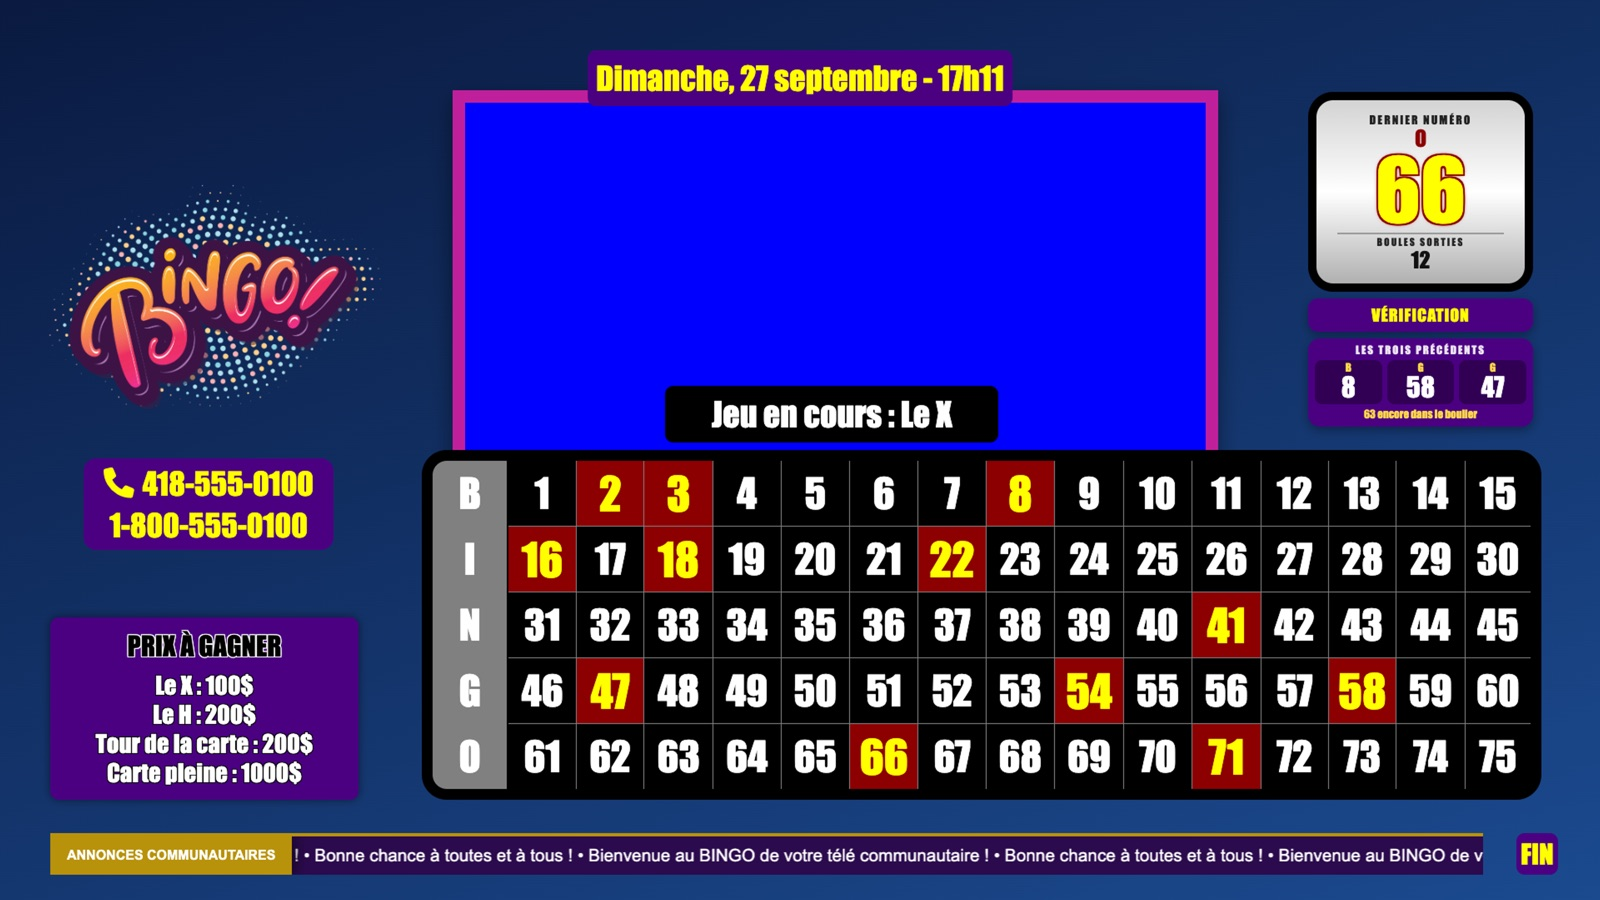
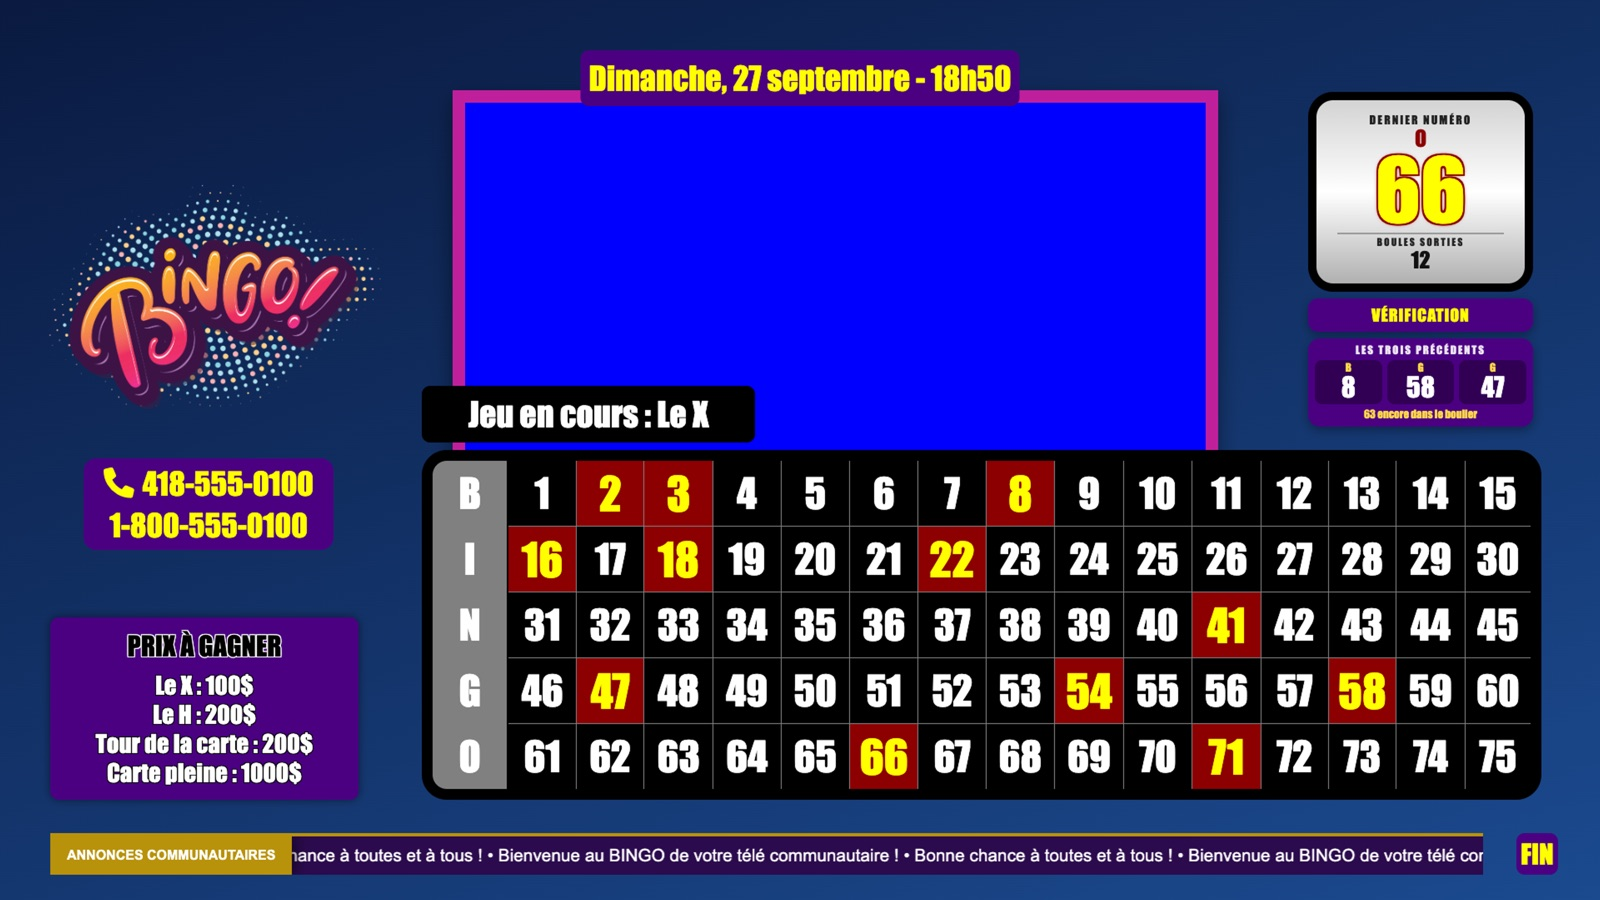
Version 2.28 : fenêtre « Félicitations », bandeau GAGNANTS, nouvelles captures

Changed region(s): [[0.25, 0.4044, 0.625, 0.4978], [0.1875, 0.9333, 0.9375, 0.9644], [0.3438, 0.0622, 0.6562, 0.1244]]

diff --git a/index.html b/index.html
@@ -43,7 +43,7 @@
         À l'écran, par contre, <strong>ton bingo a l'air d'une vraie émission</strong> —
         et une carte gagnante se <strong>vérifie en quelques secondes, en direct</strong>.
       </p>
-      <span class="pastille">Version d'essai 2.27 · Mac et PC (Windows)</span>
+      <span class="pastille">Version d'essai 2.28 · Mac et PC (Windows)</span>
       <span class="pastille pastille-arrow">Compatible avec les cartes de bingo papier Arrow Games</span>
       <div class="boutons">
         <a class="bouton bouton-fort" href="#telecharger">Télécharger gratuitement</a>
@@ -60,7 +60,7 @@
       </a>
 
       <figure class="capture-heros">
-        <img src="images/jeu.jpg" width="1600" height="900"
+        <img src="images/jeu.jpg?v=228" width="1600" height="900"
              alt="L'écran d'antenne : le tableau de 1 à 75 avec les numéros sortis en rouge, le dernier numéro en grand,
                   les trois précédents, la forme en cours, les prix à gagner, les numéros de téléphone,
                   le bandeau d'annonces et la zone bleue où s'incruste l'animateur.">
@@ -98,6 +98,11 @@
           <span>Un clic sur le bloc téléphone : la zone de l'animateur laisse place à un message (« Nous revenons dans quelques instants ») et à de la musique, le temps de prendre l'appel.</span>
         </li>
         <li>
+          <svg viewBox="0 0 32 32"><path d="M10 4h12v7a6 6 0 0 1-12 0z"/><path d="M10 7H5a4 4 0 0 0 5 5M22 7h5a4 4 0 0 1-5 5M16 17v6M11 28h10M13 23h6v5h-6z"/></svg>
+          <strong>Les gagnants à l'écran</strong>
+          <span>Carte gagnante ? Une fenêtre « Félicitations » pour inscrire le nom du gagnant, puis les gagnants défilent à l'écran avec la forme gagnée.</span>
+        </li>
+        <li>
           <svg viewBox="0 0 32 32"><path d="M8 3h12l6 6v20H8z"/><path d="M20 3v6h6M12 15h10M12 20h10M12 25h6"/></svg>
           <strong>Journal d'audit</strong>
           <span>Chaque boule, chaque correction, chaque carte vérifiée et chaque gagnante est notée à la seconde près. Un rapport téléchargeable (tableur) pour chaque partie.</span>
@@ -125,13 +130,24 @@
         d'activer ou d'enlever un numéro par erreur. On referme la vérification, et le jeu continue.
       </p>
       <figure class="apercu">
-        <img src="images/verification.jpg" width="1600" height="900" loading="lazy"
+        <img src="images/verification.jpg?v=228" width="1600" height="900" loading="lazy"
              alt="Deux cartes vérifiées à l'écran à la place de la zone de l'animateur : la carte 27001,
                   gagnante pour le X, et la carte 31415, à qui il manque 7 numéros.">
         <figcaption>
           Deux appels, deux cartes. La <strong>27001</strong> a fait son X : « Gagnante ».
           À la <strong>31415</strong>, il manque 7 numéros. Les cases de la forme à faire sont
-          encadrées en or, les numéros déjà sortis sont en rouge.
+          encadrées en or, les numéros déjà sortis sont en rouge. Sous les cartes, le bandeau
+          <strong>GAGNANTS</strong> fait défiler les noms déjà inscrits.
+        </figcaption>
+      </figure>
+      <figure class="apercu">
+        <img src="images/gagnant.jpg?v=228" width="1600" height="900" loading="lazy"
+             alt="La fenêtre Félicitations : trophée, confettis, carte 27001, forme gagnée Le X,
+                  champs Nom du gagnant et Ville, boutons Enregistrer et Fermer.">
+        <figcaption>
+          Carte gagnante : une fenêtre <strong>« Félicitations »</strong> s'ouvre pour inscrire le
+          <strong>nom</strong> (et la ville) du gagnant. Entrée pour enregistrer, Échap pour fermer.
+          Tu préfères t'en passer ? Une case à décocher dans les paramètres.
         </figcaption>
       </figure>
       <div class="duo">
@@ -228,12 +244,12 @@
         <a class="telechargement" href="https://github.com/bingoTCA/bingo-habillage-tv/releases/latest/download/BINGO-Habillage-TV-mac.dmg">
           <span class="tele-titre">Mac</span>
           <span class="tele-detail">Mac avec puce Apple (M1, M2, M3, M4) · macOS 13 Ventura ou plus récent</span>
-          <span class="tele-etat">Télécharger la version 2.27 · 165 Mo</span>
+          <span class="tele-etat">Télécharger la version 2.28 · 165 Mo</span>
         </a>
         <a class="telechargement" href="https://github.com/bingoTCA/bingo-habillage-tv/releases/latest/download/BINGO-Habillage-TV-windows.exe">
           <span class="tele-titre">PC (Windows)</span>
           <span class="tele-detail">Windows 10 ou 11 (64 bits) · nouveau : dis-moi comment ça se passe sur ton PC</span>
-          <span class="tele-etat">Télécharger la version 2.27 · 148 Mo</span>
+          <span class="tele-etat">Télécharger la version 2.28 · 148 Mo</span>
         </a>
       </div>
       <p class="petit" style="margin-top:18px">
@@ -317,6 +333,7 @@
         <li>
           <h3>Un appel ? VÉRIFICATION</h3>
           <p>Tape le numéro de la carte, appuie sur Entrée. Le bouton <strong>+</strong> ajoute une autre carte à côté.
+             Carte gagnante : inscris le nom du gagnant dans la fenêtre « Félicitations ».
              Referme la vérification pour reprendre le jeu.</p>
         </li>
         <li>
@@ -354,6 +371,7 @@
             <li>Chaque <strong>changement de forme</strong></li>
             <li>Chaque <strong>carte vérifiée</strong> : son numéro, la forme en cours et le verdict —
                 gagnante, ou les numéros qui manquaient</li>
+            <li>Le <strong>nom de chaque gagnant</strong> inscrit dans la fenêtre « Félicitations »</li>
             <li>Les clics <strong>refusés</strong> pendant une vérification (tableau verrouillé)</li>
             <li>Les pauses téléphone, les pubs diffusées et la fin de la partie</li>
           </ul>
